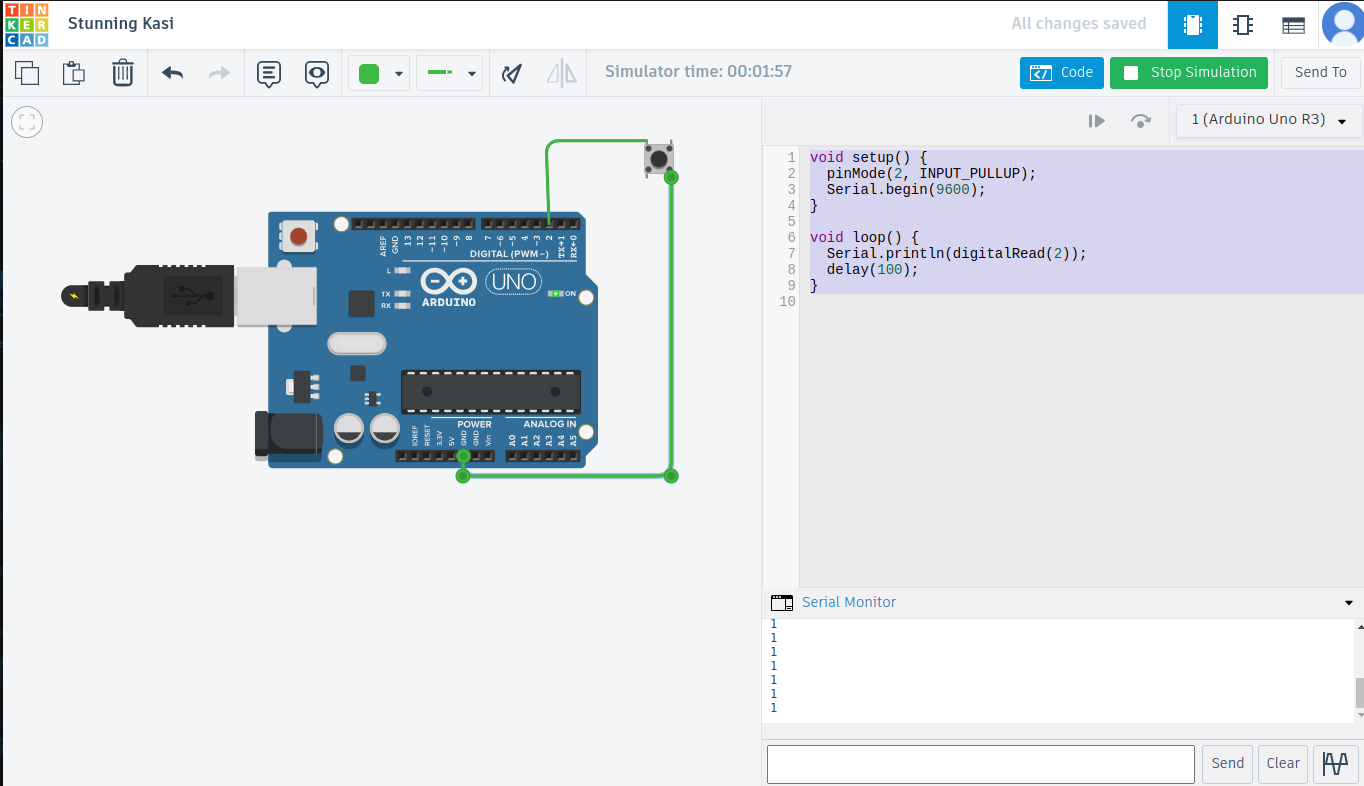
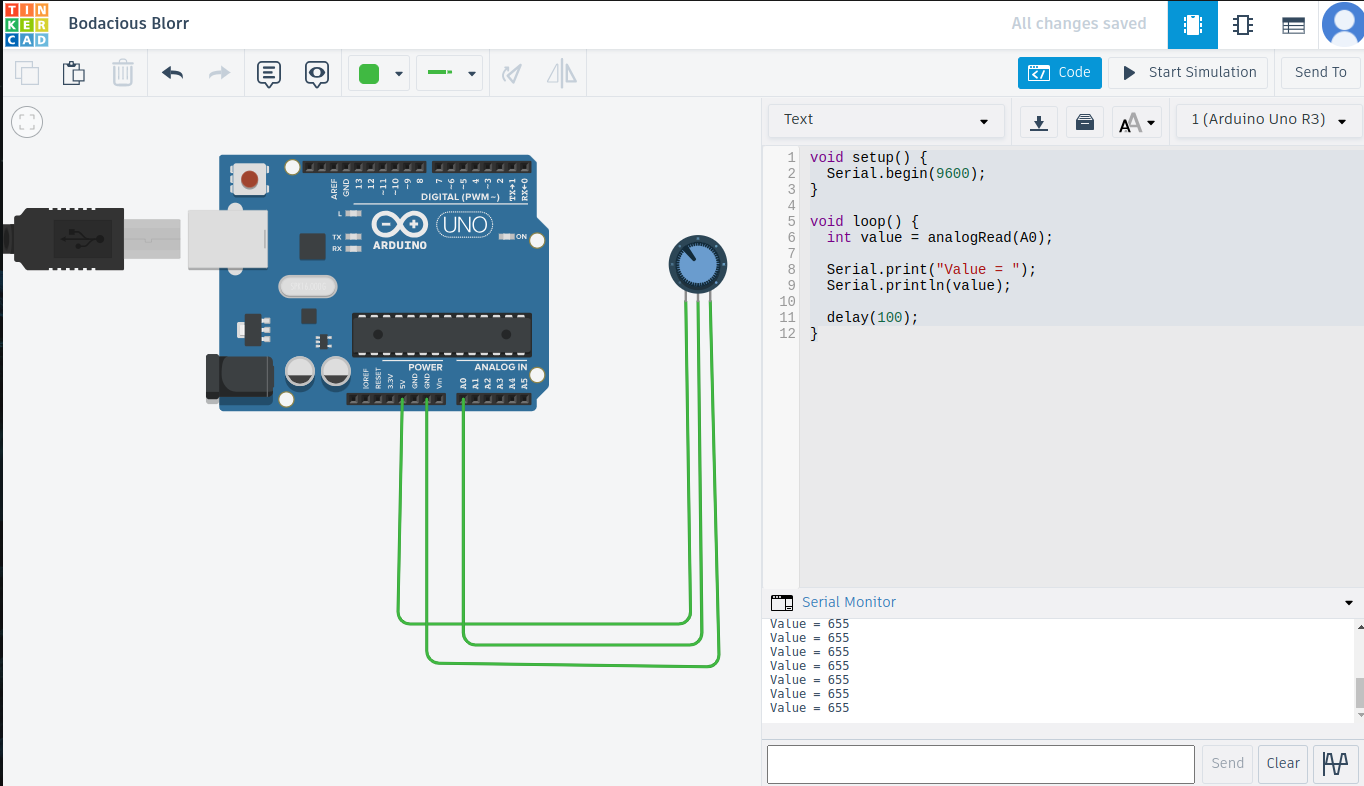
Add files via upload

diff --git a/README.md b/README.md
@@ -1,12 +1,25 @@
-# Push Button Sensor
+# Potentiometer Sensor
 
 ## Purpose
-Detects button presses.
+A potentiometer is a variable resistor used to provide analog input to Arduino.
+
+## Components Required
+- Arduino Uno
+- Potentiometer
 
 ## Connections
-D2 -> Button
-GND -> Button
+Left Pin -> 5V
+Middle Pin -> A0
+Right Pin -> GND
+
+## Code Explanation
+analogRead(A0) reads the voltage from the potentiometer and returns a value between 0 and 1023.
 
 ## Working
-Pressed = 0
-Released = 1
+When the knob is rotated, the output voltage changes.
+Arduino reads the value and displays it in the Serial Monitor.
+
+## Output
+Value = 0
+Value = 512
+Value = 1023